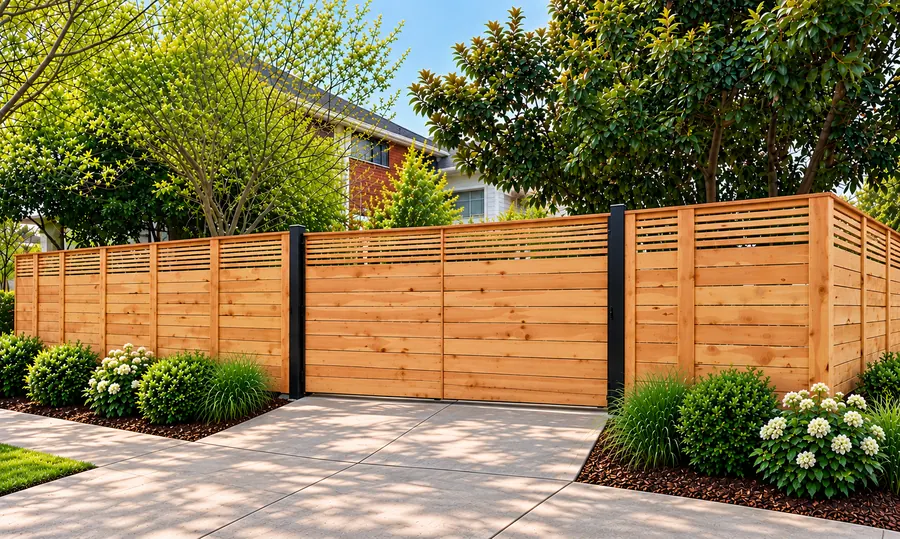
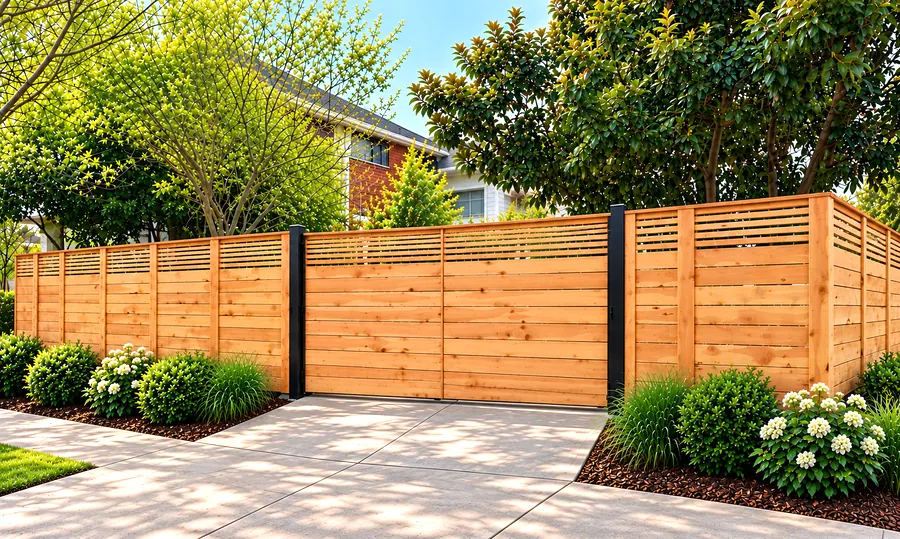
Brighten hero fence photo and add Pictures & Art services
Lighten the green wash over the hero photo (and the photo itself) so the
fence reads clearly, with a soft text shadow to keep the headline legible.
Add a Pictures & Art category with Picture Hanging and Art Installation;
both also appear in the quote form's service list.

Claude-Session: https://claude.ai/code/session_014YDydHZjFZV7ZCjnAuTjZH

diff --git a/src/styles/global.css b/src/styles/global.css
@@ -486,12 +486,19 @@ p {
   content: '';
   position: absolute;
   inset: 0;
-  background: linear-gradient(90deg, rgb(20 38 27 / 0.94) 0%, rgb(20 38 27 / 0.82) 45%, rgb(20 38 27 / 0.35) 100%);
+  background: linear-gradient(90deg, rgb(20 38 27 / 0.8) 0%, rgb(20 38 27 / 0.55) 45%, rgb(20 38 27 / 0.05) 100%);
   pointer-events: none;
 }
 
 .hero .eyebrow {
   color: var(--accent-light);
+}
+
+.hero h1,
+.hero-sub,
+.hero .eyebrow,
+.trust-line {
+  text-shadow: 0 1px 12px rgb(0 0 0 / 0.45);
 }
 
 .hero-grid {
@@ -1409,7 +1416,7 @@ p {
   }
 
   .hero::after {
-    background: linear-gradient(180deg, rgb(20 38 27 / 0.88), rgb(20 38 27 / 0.94));
+    background: linear-gradient(180deg, rgb(20 38 27 / 0.62), rgb(20 38 27 / 0.75));
   }
 
   .worries,

diff --git a/src/data/site.ts b/src/data/site.ts
@@ -136,6 +136,23 @@ export const serviceCategories: ServiceCategory[] = [
     ],
   },
   {
+    name: 'Pictures & Art',
+    services: [
+      {
+        slug: 'picture-hanging',
+        name: 'Picture Hanging',
+        icon: 'image',
+        blurb: 'Photos, prints, and mirrors hung level, at the right height, and anchored to stay put.',
+      },
+      {
+        slug: 'art-installation',
+        name: 'Art Installation',
+        icon: 'ruler',
+        blurb: 'Gallery walls, heavy or oversized pieces, and shelves laid out and mounted securely.',
+      },
+    ],
+  },
+  {
     name: 'Projects & Heavy Work',
     services: [
       {
